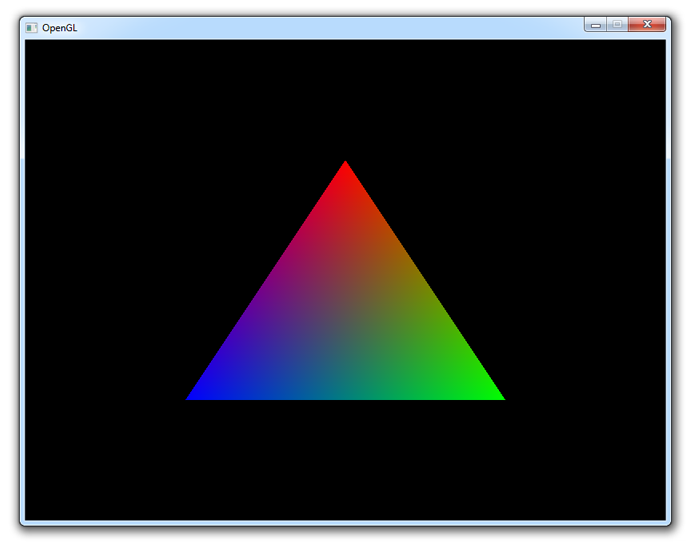
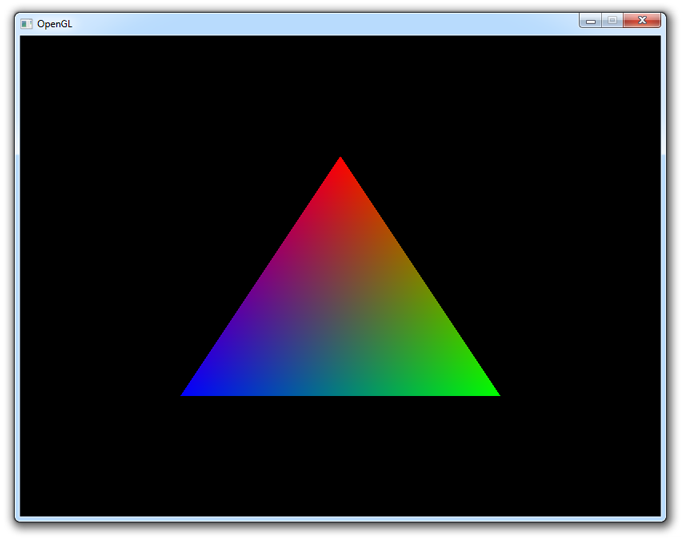
Added support for WebGL demos and added one to the drawing chapter.

diff --git a/content/demos/c2_uniforms.js b/content/demos/c2_uniforms.js
@@ -1,0 +1,53 @@
+var canvas = document.getElementById( "demo_c2_uniforms" ).getElementsByTagName( "canvas" )[0];
+var gl = canvas.getContext( "experimental-webgl" );
+
+// Populate vertex buffer
+var vertices = [
+	0.0, 0.5,
+	0.5, -0.5,
+	-0.5, -0.5
+];
+var vbo = gl.createBuffer();
+gl.bindBuffer( gl.ARRAY_BUFFER, vbo );
+gl.bufferData( gl.ARRAY_BUFFER, new Float32Array( vertices ), gl.STATIC_DRAW );
+
+// Load shaders
+var vertexShader = gl.createShader( gl.VERTEX_SHADER );
+gl.shaderSource( vertexShader, "attribute vec2 position; void main() { gl_Position = vec4( position, 0.0, 1.0 ); }" );
+gl.compileShader( vertexShader );
+console.log( gl.getShaderInfoLog( vertexShader ) );
+
+var fragmentShader = gl.createShader( gl.FRAGMENT_SHADER );
+gl.shaderSource( fragmentShader, "precision mediump float; uniform vec3 triangleColor; void main() { gl_FragColor = vec4( triangleColor, 1.0 ); }" );
+gl.compileShader( fragmentShader );
+console.log( gl.getShaderInfoLog( fragmentShader ) );
+
+var shaderProgram = gl.createProgram();
+gl.attachShader( shaderProgram, vertexShader );
+gl.attachShader( shaderProgram, fragmentShader );
+gl.linkProgram( shaderProgram );
+gl.useProgram( shaderProgram );
+
+var posAttrib = gl.getAttribLocation( shaderProgram, "position" );
+gl.enableVertexAttribArray( posAttrib );
+gl.vertexAttribPointer( posAttrib, 2, gl.FLOAT, gl.FALSE, 0, 0 );
+
+// Draw
+var uniColor = gl.getUniformLocation( shaderProgram, "triangleColor" );
+var timeOffset = +new Date();
+
+var requestAnimationFrame = window.requestAnimationFrame || window.mozRequestAnimationFrame || window.webkitRequestAnimationFrame;
+function frame()
+{
+	if ( !elementInViewport( canvas ) ) { requestAnimationFrame( frame ); return; }
+
+	gl.clearColor( 0.0, 0.0, 0.0, 1.0 );
+	gl.clear( gl.COLOR_BUFFER_BIT );
+
+	gl.uniform3f( uniColor, ( Math.sin( +new Date() / 1000.0 * 4.0 ) + 1.0 ) / 2.0, 0.0, 0.0 );
+
+	gl.drawArrays( gl.TRIANGLES, 0, 3 );
+
+	requestAnimationFrame( frame );
+}
+requestAnimationFrame( frame );

diff --git a/media/style.css b/media/style.css
@@ -99,3 +99,21 @@ blockquote {
 blockquote p {
 	margin: 0;
 }
+
+.livedemo {
+	width: 690px;
+	height: 546px;
+	margin: auto;
+
+	position: relative;
+}
+
+.livedemo canvas {
+	width: 640px;
+	height: 480px;
+
+	position: absolute;
+
+	left: 20px;
+	top: 36px;
+}

diff --git a/index.php b/index.php
@@ -77,6 +77,12 @@
 				ga.src = ( "https:" == document.location.protocol ? "https://ssl" : "http://www" ) + ".google-analytics.com/ga.js";
 				var s = document.getElementsByTagName( "script" )[0]; s.parentNode.insertBefore( ga, s );
 			} )();
+
+			// Utility function
+			function elementInViewport( el ) {
+				var rect = el.getBoundingClientRect();
+				return rect.bottom > 0 && rect.top < window.innerHeight;
+			}
 		</script>
 	</head>
 	

diff --git a/content/drawing.md b/content/drawing.md
@@ -283,7 +283,10 @@ If you run your program now, you'll see that the triangle is red. To make things
 
 Although this example may not be very exciting, it does demonstrate that uniforms are essential for controlling the behaviour of shaders at runtime. Vertex attributes on the other hand are ideal for describing a single vertex.
 
-<img src="media/img/c2_window3.png" alt="" />
+<div class="livedemo" id="demo_c2_uniforms" style="background: url( 'media/img/c2_window3.png' )">
+	<canvas width="640" height="480"></canvas>
+	<script type="text/javascript" src="content/demos/c2_uniforms.js"></script>
+</div>
 
 See [the code](content/code/c2_triangle_uniform.txt) if you have any trouble getting this to work.
 
